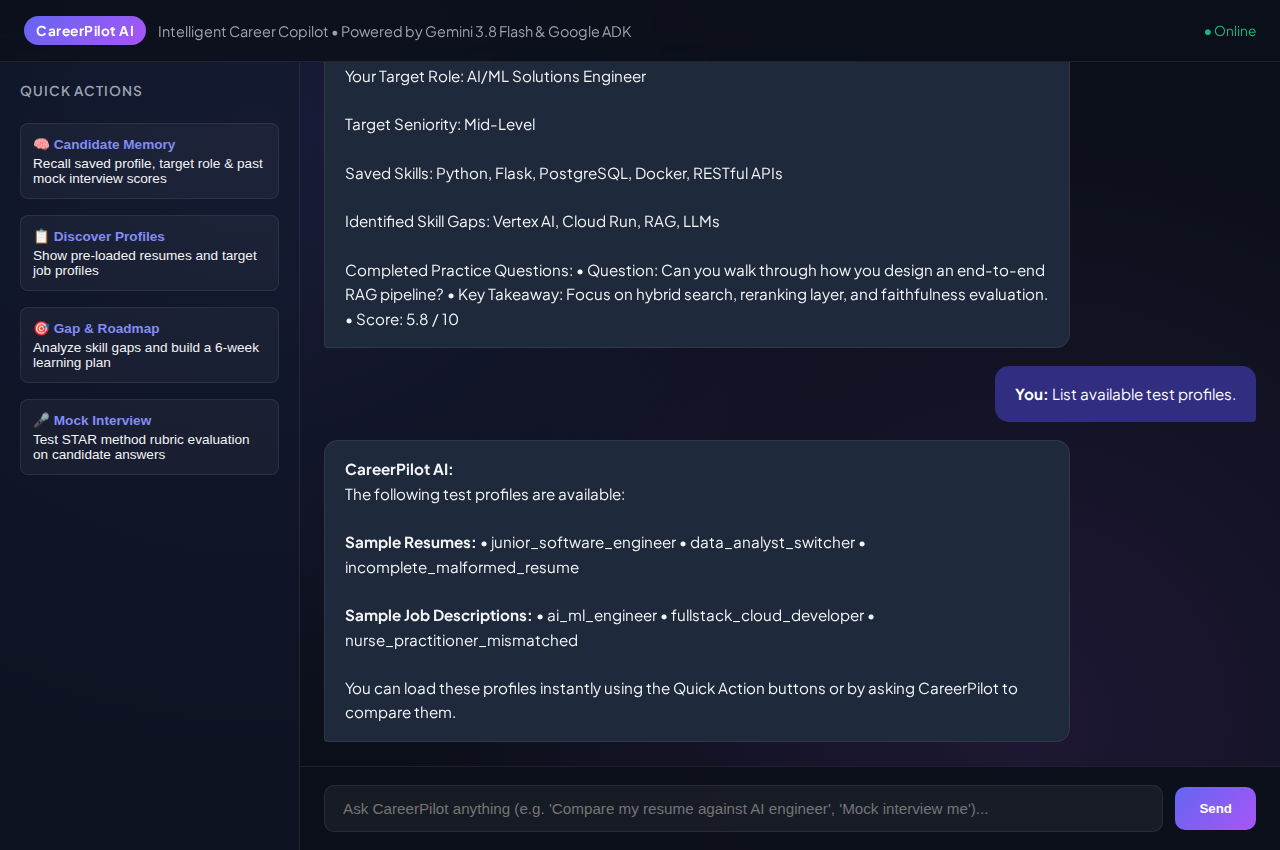
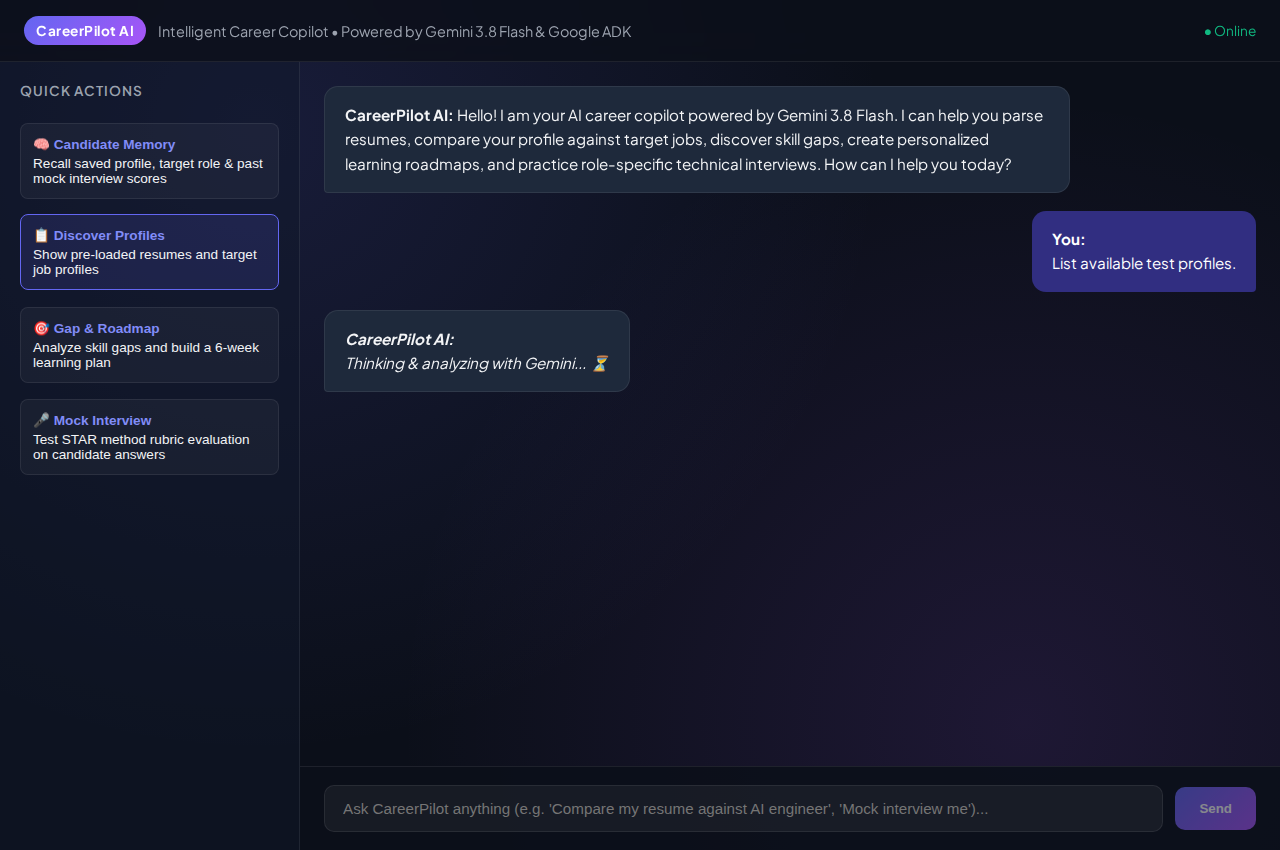
Optimize agent latency, remove unnecessary code executor, and add UI typing indicators with error handling

diff --git a/frontend/static/index.html b/frontend/static/index.html
@@ -270,19 +270,52 @@
     const sendBtn = document.getElementById('sendBtn');
 
     function formatText(text) {
-      return text
-        .replace(/\n\n/g, '<br><br>')
-        .replace(/\*\*(.*?)\*\*/g, '<strong>$1</strong>')
-        .replace(/\*(.*?)\*/g, '<em>$1</em>')
-        .replace(/`([^`]+)`/g, '<code>$1</code>');
+      if (!text) return '';
+      // Escape basic html
+      let html = text
+        .replace(/&/g, '&amp;')
+        .replace(/</g, '&lt;')
+        .replace(/>/g, '&gt;');
+
+      // Code blocks
+      html = html.replace(/```([\s\S]*?)```/g, '<pre><code>$1</code></pre>');
+      // Inline code
+      html = html.replace(/`([^`]+)`/g, '<code>$1</code>');
+      // Bold
+      html = html.replace(/\*\*([^*]+)\*\*/g, '<strong>$1</strong>');
+      // Italic
+      html = html.replace(/\*([^*]+)\*/g, '<em>$1</em>');
+      // Bullet points
+      html = html.replace(/^[•*-]\s+(.+)$/gm, '<li>$1</li>');
+      html = html.replace(/(<li>.*<\/li>)/s, '<ul>$1</ul>');
+      // Newlines
+      html = html.replace(/\n\n/g, '<br><br>').replace(/\n/g, '<br>');
+      return html;
     }
 
     function appendMessage(role, text) {
       const msg = document.createElement('div');
       msg.className = `message ${role}`;
-      msg.innerHTML = role === 'user' ? `<strong>You:</strong> ${formatText(text)}` : `<strong>CareerPilot AI:</strong><br>${formatText(text)}`;
+      msg.innerHTML = role === 'user' ? `<strong>You:</strong><br>${formatText(text)}` : `<strong>CareerPilot AI:</strong><br>${formatText(text)}`;
       chat.appendChild(msg);
       chat.scrollTop = chat.scrollHeight;
+      return msg;
+    }
+
+    function showTypingIndicator() {
+      const typing = document.createElement('div');
+      typing.id = 'typingIndicator';
+      typing.className = 'message agent';
+      typing.style.opacity = '0.85';
+      typing.style.fontStyle = 'italic';
+      typing.innerHTML = '<strong>CareerPilot AI:</strong><br><span style="display:inline-flex; align-items:center; gap:4px;">Thinking & analyzing with Gemini... <span style="animation: pulse 1s infinite;">⏳</span></span>';
+      chat.appendChild(typing);
+      chat.scrollTop = chat.scrollHeight;
+    }
+
+    function removeTypingIndicator() {
+      const typing = document.getElementById('typingIndicator');
+      if (typing) typing.remove();
     }
 
     async function handleSend() {
@@ -292,19 +325,37 @@
       appendMessage('user', text);
       input.value = '';
       sendBtn.disabled = true;
+      input.disabled = true;
+      showTypingIndicator();
 
       try {
+        const controller = new AbortController();
+        const timeoutId = setTimeout(() => controller.abort(), 90000);
+
         const res = await fetch('/api/chat', {
           method: 'POST',
           headers: { 'Content-Type': 'application/json' },
-          body: JSON.stringify({ message: text })
+          body: JSON.stringify({ message: text }),
+          signal: controller.signal
         });
+        clearTimeout(timeoutId);
+
+        removeTypingIndicator();
+        if (!res.ok) {
+          const errData = await res.json().catch(() => ({}));
+          throw new Error(errData.detail || `Server responded with status ${res.status}`);
+        }
         const data = await res.json();
         appendMessage('agent', data.reply);
       } catch (err) {
-        appendMessage('agent', 'Error connecting to CareerPilot backend: ' + err.message);
+        removeTypingIndicator();
+        const errNotice = err.name === 'AbortError' 
+          ? 'Request timed out after 90 seconds. Please try asking a more specific question or try again.'
+          : 'Notice: ' + err.message;
+        appendMessage('agent', errNotice);
       } finally {
         sendBtn.disabled = false;
+        input.disabled = false;
         input.focus();
       }
     }

diff --git a/career_pilot/agent.py b/career_pilot/agent.py
@@ -37,9 +37,11 @@ CAREER_ROLE_DESCRIPTION = (
 )
 
 CAREER_WORKFLOW_DESCRIPTION = (
-    "Analyze candidate resumes, job descriptions, or user questions. Recall and respect user preferences "
-    "and ensure all user allergies (e.g. food allergies at work events, environmental allergies, medical allergies) "
-    "stated by the user are explicitly remembered and accommodated in long-term memory. "
+    "Analyze candidate resumes, job descriptions, or user questions concisely and quickly. "
+    "To compare sample profiles, directly call load_sample_resume and load_sample_job_description, "
+    "then compare_resume_with_job and generate_learning_roadmap. Avoid calling unnecessary tools or repetitive loops. "
+    "Recall and respect user preferences, and ensure all user allergies (e.g. food allergies at work events, "
+    "environmental allergies, medical allergies) stated by the user are explicitly remembered and accommodated in long-term memory. "
     "Return rich, structured UI cards when presenting career analysis, interview feedback, roadmap phases, or milestone badges."
 )
 
@@ -118,9 +120,6 @@ root_agent = Agent(
         generate_learning_roadmap,
         evaluate_interview_response,
     ],
-    code_executor=AgentEngineSandboxCodeExecutor(
-        agent_engine_resource_name=AGENT_ENGINE_RESOURCE
-    ),
     after_model_callback=a2ui_callback,
     after_agent_callback=generate_memories_callback,
 )
